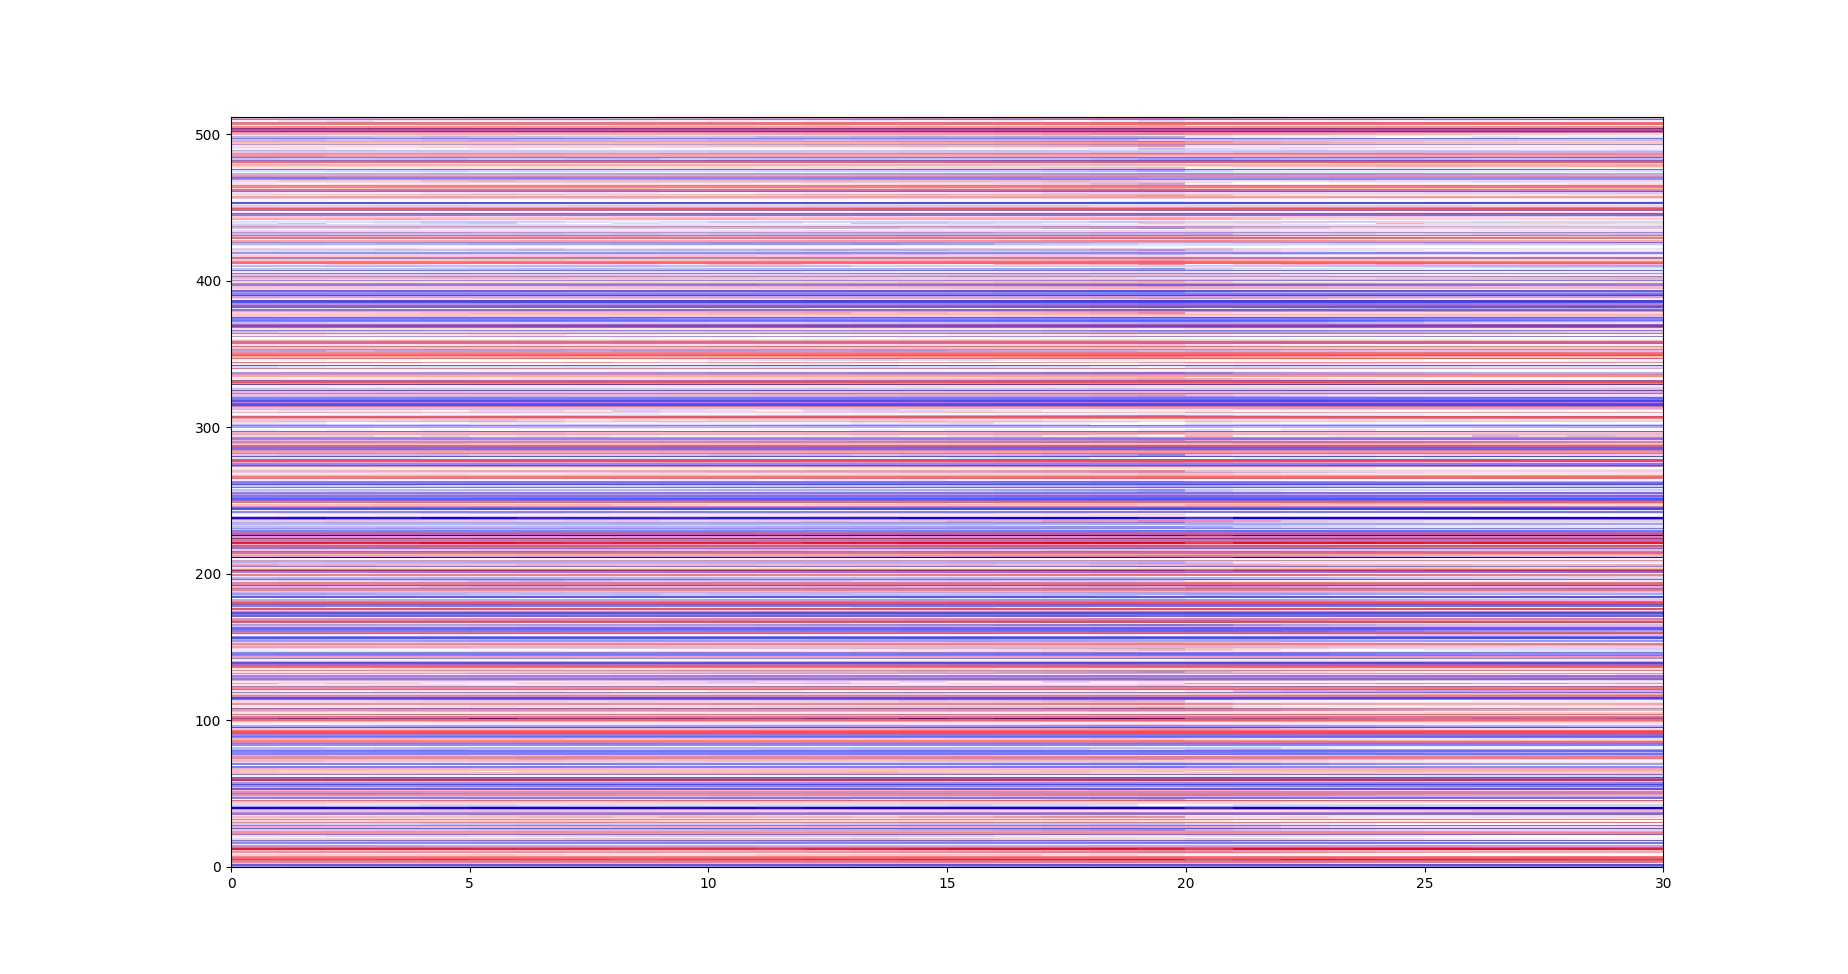
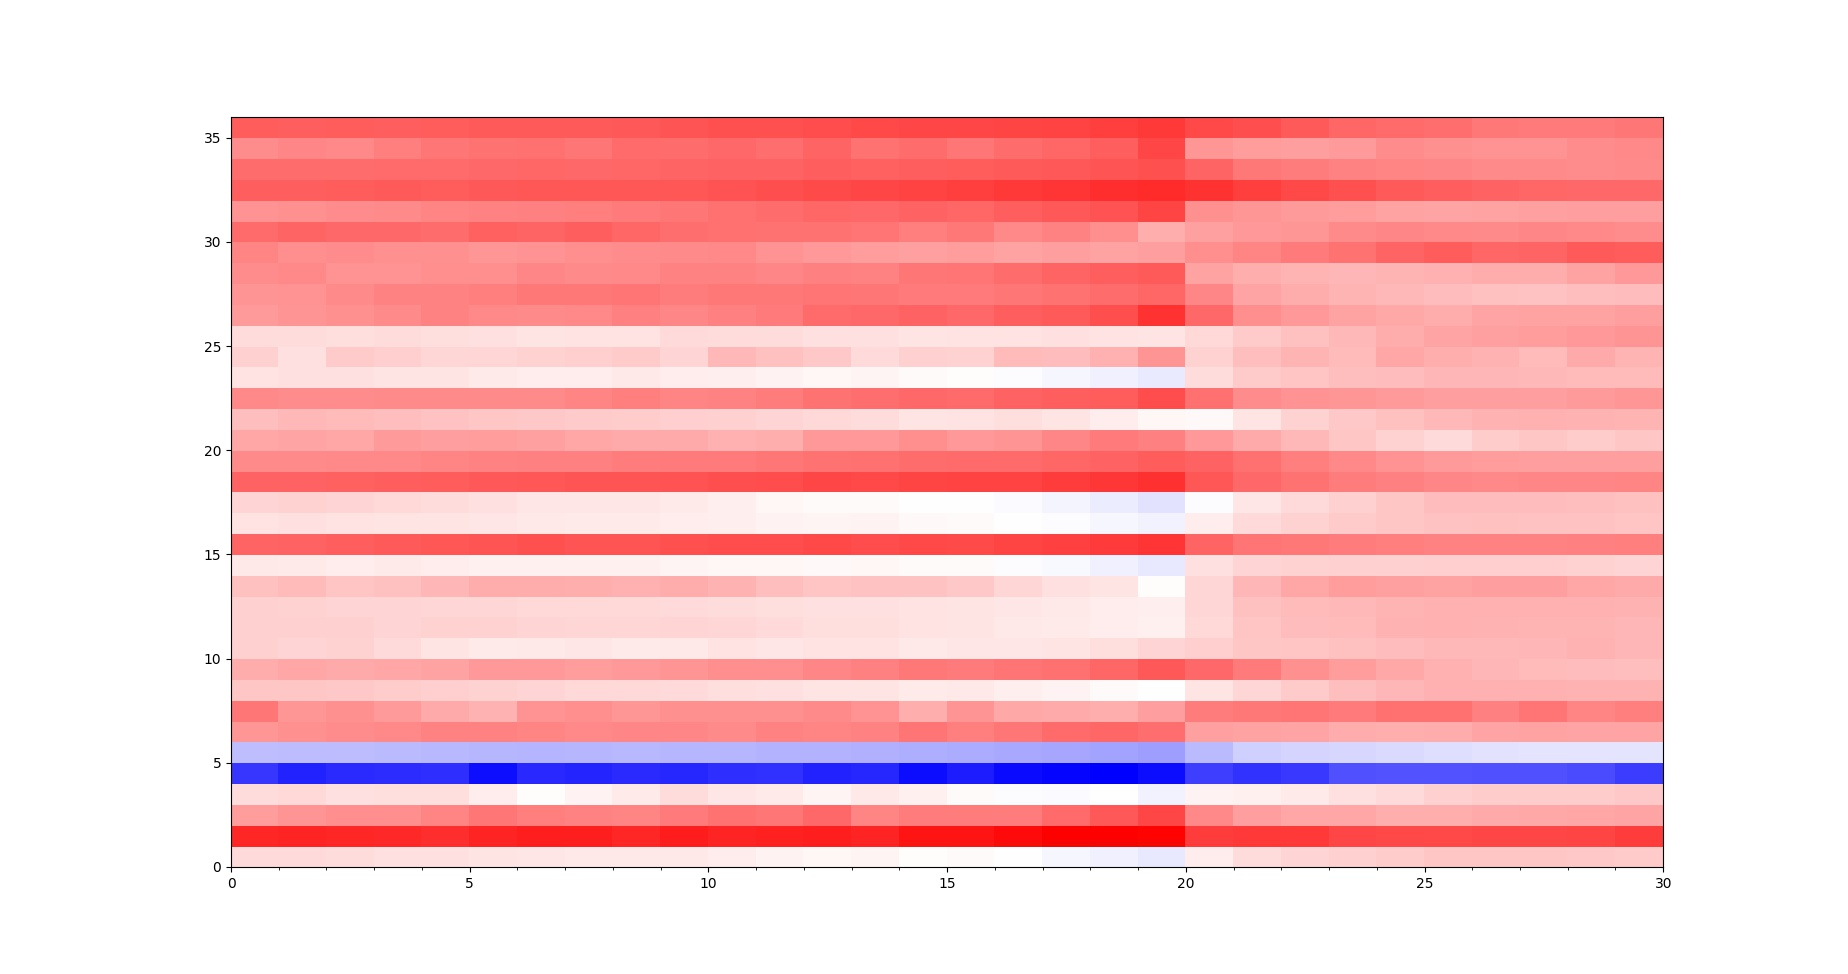
Videos

diff --git a/Analysis/Neural/Visualisation/activity_heat_maps.py b/Analysis/Neural/Visualisation/activity_heat_maps.py
@@ -36,63 +36,103 @@ def display_activity_heat_map(rnn_activity, event_timestamps, name, min_t=0, max
 
 def display_activity_heat_map_capture_sequences_average(model_name, assay_config, assay_id, n,
                                                         normalise_main_activity=True, normalise_cell_activity=True,
-                                                        sequence_steps=10, post_steps=0, first_captures=False):
-    rnn_activity = np.zeros((sequence_steps+post_steps, 2, 512))
+                                                        sequence_steps=10, post_steps=0, first_captures=False,
+                                                        remove_undeviating=True):
+    all_rnn_activity = []
+    all_capture_timepoints = []
     num_sequences = 0
     for i in range(1, n+1):
         data = load_data(model_name, assay_config, f"{assay_id}-{i}")
         capture_ts = label_capture_sequences(data, n=sequence_steps) * 1
         rnn_data = data["rnn_state_actor"]
-        main_activity = np.swapaxes(rnn_data[:, 0, 0, :], 0, 1)
-        cell_state_activity = np.swapaxes(rnn_data[:, 1, 0, :], 0, 1)
-        if normalise_main_activity:
-            main_activity = normalise_within_neuron_multiple_traces(main_activity)
-        if normalise_cell_activity:
-            cell_state_activity = normalise_within_neuron_multiple_traces(cell_state_activity)
-        rnn_data = np.concatenate((np.expand_dims(main_activity, 1),
-                                   np.expand_dims(cell_state_activity, 1)),
-                                   axis=1)
-        rnn_data = np.swapaxes(rnn_data, 0, 2)
+        all_rnn_activity.append(rnn_data)
+        all_capture_timepoints.append(capture_ts)
 
-        capture_ts_separated = []
+    all_capture_timepoints = np.concatenate(all_capture_timepoints)
+    all_rnn_activity = np.concatenate(all_rnn_activity)
+
+    # RNN normalisation
+    main_activity = np.swapaxes(all_rnn_activity[:, 0, 0, :], 0, 1)
+    cell_state_activity = np.swapaxes(all_rnn_activity[:, 1, 0, :], 0, 1)
+    if normalise_main_activity:
+        main_activity = normalise_within_neuron_multiple_traces(main_activity, zero_score_start=False)
+    if normalise_cell_activity:
+        cell_state_activity = normalise_within_neuron_multiple_traces(cell_state_activity, zero_score_start=False)
+    rnn_data = np.concatenate((np.expand_dims(main_activity, 1),
+                               np.expand_dims(cell_state_activity, 1)),
+                              axis=1)
+    rnn_data = np.swapaxes(rnn_data, 0, 2)
+
+    # Selecting relevant capture points
+    capture_ts_separated = []
+    current_ts_sequence = []
+    for i, c in enumerate(all_capture_timepoints):
+        if c == 1:
+            current_ts_sequence.append(i)
+        else:
+            if len(current_ts_sequence) > 0:
+                capture_ts_separated.append(current_ts_sequence)
+                current_ts_sequence = []
+    if len(current_ts_sequence) > 0:
+        capture_ts_separated.append(current_ts_sequence)
         current_ts_sequence = []
-        for i, c in enumerate(capture_ts):
-            if c == 1:
-                current_ts_sequence.append(i)
-            else:
-                if len(current_ts_sequence) > 0:
-                    capture_ts_separated.append(current_ts_sequence)
-                    current_ts_sequence = []
-        if len(current_ts_sequence) > 0:
-            capture_ts_separated.append(current_ts_sequence)
-            current_ts_sequence = []
 
-        for sequence in capture_ts_separated:
-            sequence += [i for i in range(sequence[-1]+1, sequence[-1]+post_steps+1)]
+    # Adding more steps to each sequence
+    for sequence in capture_ts_separated:
+        sequence += [i for i in range(sequence[-1]+1, sequence[-1]+post_steps+1)]
 
-        for sequence in capture_ts_separated:
-            if len(sequence) != sequence_steps + post_steps:
-                continue
-            try:
-                rnn_activity_t = rnn_data[sequence]
-                rnn_activity += rnn_activity_t
-                num_sequences += 1
-            except IndexError:
-                pass
+    # Compiling activity during sequences
+    rnn_activity = np.zeros((sequence_steps+post_steps, 2, 512))
+
+    for sequence in capture_ts_separated:
+        if len(sequence) != sequence_steps + post_steps:
+            continue
+        try:
+            rnn_activity_t = rnn_data[sequence]
+            rnn_activity += rnn_activity_t
+            num_sequences += 1
+        except IndexError:
+            pass
+
+    # Changing to mean
     rnn_activity /= num_sequences
     main_activity = np.swapaxes(rnn_activity[:, 0, :], 0, 1)
     cell_state_activity = np.swapaxes(rnn_activity[:, 1, :], 0, 1)
 
+    if remove_undeviating:
+        thresh_1 = 0.07
+        # thresh_1 = 0.05
+        # thresh_1 = 0.07
+        std_main = np.std(main_activity, axis=1)
+        varying_main = (std_main > thresh_1)
+        main_activity = main_activity[varying_main]
 
+        thresh_2 = 0.20
+        # thresh_2 = 0.15
+        # thresh_2 = 0.17
+        std_cell = np.std(cell_state_activity, axis=1)
+        varying_cell = (std_cell > thresh_2)
+        cell_state_activity = cell_state_activity[varying_cell]
+
+    time_ticks = [i for i in range(-sequence_steps, 1)] + [i for i in range(1, post_steps + 1)]
+
+    # Plotting
     plt.figure(figsize=(20, 20))
     plt.pcolormesh(main_activity, cmap="bwr")
-    plt.savefig(f"{model_name}-prey_capture-heat_map.jpg", dpi=100)
+    plt.vlines(sequence_steps, 0, main_activity.shape[0], color="black")
+    plt.xticks(range(0, len(time_ticks), 5), [time_ticks[i] for i in range(0, len(time_ticks), 5)], fontsize=15)
+    plt.ylabel("Neurons", fontsize=25)
+    plt.xlabel("Steps from Consumption", fontsize=25)
+    plt.savefig(f"{model_name}-prey_capture-heat_map_main.jpg", dpi=100)
     plt.clf()
     plt.close()
 
     plt.figure(figsize=(20, 20))
     plt.pcolormesh(cell_state_activity, cmap="bwr")
-
+    plt.vlines(sequence_steps, 0, cell_state_activity.shape[0], color="black")
+    plt.xticks(range(0, len(time_ticks), 5), [time_ticks[i] for i in range(0, len(time_ticks), 5)], fontsize=15)
+    plt.ylabel("Neurons", fontsize=25)
+    plt.xlabel("Steps from Consumption", fontsize=25)
     plt.savefig(f"{model_name}-prey_capture-heat_map_cell.jpg", dpi=100)
     plt.clf()
     plt.close()
@@ -101,7 +141,7 @@ def display_activity_heat_map_capture_sequences_average(model_name, assay_config
 if __name__ == "__main__":
     display_activity_heat_map_capture_sequences_average("dqn_scaffold_26-2", "Behavioural-Data-NaturalisticA", "Naturalistic", 20,
                                                         normalise_main_activity=True, normalise_cell_activity=True,
-                                                        sequence_steps=20, post_steps=10)
+                                                        sequence_steps=50, post_steps=50)
     # Interrupted trials
     # data = load_data("dqn_scaffold_14-1", "Interruptions-H", "Naturalistic-3")
     # data2 = load_data("dqn_scaffold_14-1", "Interruptions-H", "Naturalistic-5")

diff --git a/run_analysis.py b/run_analysis.py
@@ -29,24 +29,24 @@ elif run_config == "4l":
 elif run_config == "dense":
     produce_meis("dqn_scaffold_26-2", "rnn_in", full_reafference=True, iterations=100, conv=False)
 elif run_config == "draw_ep":
-    # model_name = "dqn_scaffold_26-2"
-    # assay_config_name = "dqn_26_2_videos"
-    #
-    # data = load_data(model_name, "Behavioural-Data-Videos-A1", "Naturalistic-5")
-    # draw_episode(data, assay_config_name, model_name, continuous_actions=False, show_energy_state=False,
-    #              trim_to_fish=True, showed_region_quad=750, save_id="A15")
+    model_name = "dqn_scaffold_26-2"
+    assay_config_name = "dqn_26_2_videos"
+
+    data = load_data(model_name, "Behavioural-Data-Videos-A1", "Naturalistic-1")
+    draw_episode(data, assay_config_name, model_name, continuous_actions=False, show_energy_state=False,
+                 trim_to_fish=True, showed_region_quad=750, save_id="A11")
     # data = load_data(model_name, "Behavioural-Data-Videos-C1", "Naturalistic-1")
     # draw_episode(data, assay_config_name, model_name, continuous_actions=False, show_energy_state=False,
     #              trim_to_fish=True, showed_region_quad=750, save_id="C11")
-    model_name = "ppo_scaffold_21-2"
-    assay_config_name = "ppo_21_2_videos"
-
-    data = load_data(model_name, "Behavioural-Data-Videos-A1", "Naturalistic-5")
-    draw_episode(data, assay_config_name, model_name, continuous_actions=True, show_energy_state=False,
-                 trim_to_fish=True, showed_region_quad=750, save_id="A15")
-    data = load_data(model_name, "Behavioural-Data-Videos-B1", "Naturalistic-3")
-    draw_episode(data, assay_config_name, model_name, continuous_actions=True, show_energy_state=False,
-                 trim_to_fish=True, showed_region_quad=750, save_id="C11")
+    # model_name = "ppo_scaffold_21-2"
+    # assay_config_name = "ppo_21_2_videos"
+    #
+    # data = load_data(model_name, "Behavioural-Data-Videos-A1", "Naturalistic-5")
+    # draw_episode(data, assay_config_name, model_name, continuous_actions=True, show_energy_state=False,
+    #              trim_to_fish=True, showed_region_quad=750, save_id="A15")
+    # data = load_data(model_name, "Behavioural-Data-Videos-B1", "Naturalistic-3")
+    # draw_episode(data, assay_config_name, model_name, continuous_actions=True, show_energy_state=False,
+    #              trim_to_fish=True, showed_region_quad=750, save_id="C11")
 else:
     produce_meis_extended("dqn_scaffold_26-2", "conv1l", True, 1000)
 

diff --git a/Analysis/Neural/Tools/normalise_activity.py b/Analysis/Neural/Tools/normalise_activity.py
@@ -1,11 +1,15 @@
 import numpy as np
 
 
-def normalise_within_neuron_multiple_traces(neuron_traces):
+def normalise_within_neuron_multiple_traces(neuron_traces, zero_score_start=False):
     normalised_neuron_traces = []
     for n in range(len(neuron_traces)):
+        if zero_score_start:
+            neuron_traces[n] -= neuron_traces[n][0]
         m = max([abs(min(neuron_traces[n])), abs(max(neuron_traces[n]))])
-        normalised_neuron_traces.append(np.interp(neuron_traces[n], (-m, m), (-1, 1)))
+        normalised_neuron = np.interp(neuron_traces[n], (-m, m), (-1, 1))
+
+        normalised_neuron_traces.append(normalised_neuron)
     return np.array(normalised_neuron_traces)
 
 
